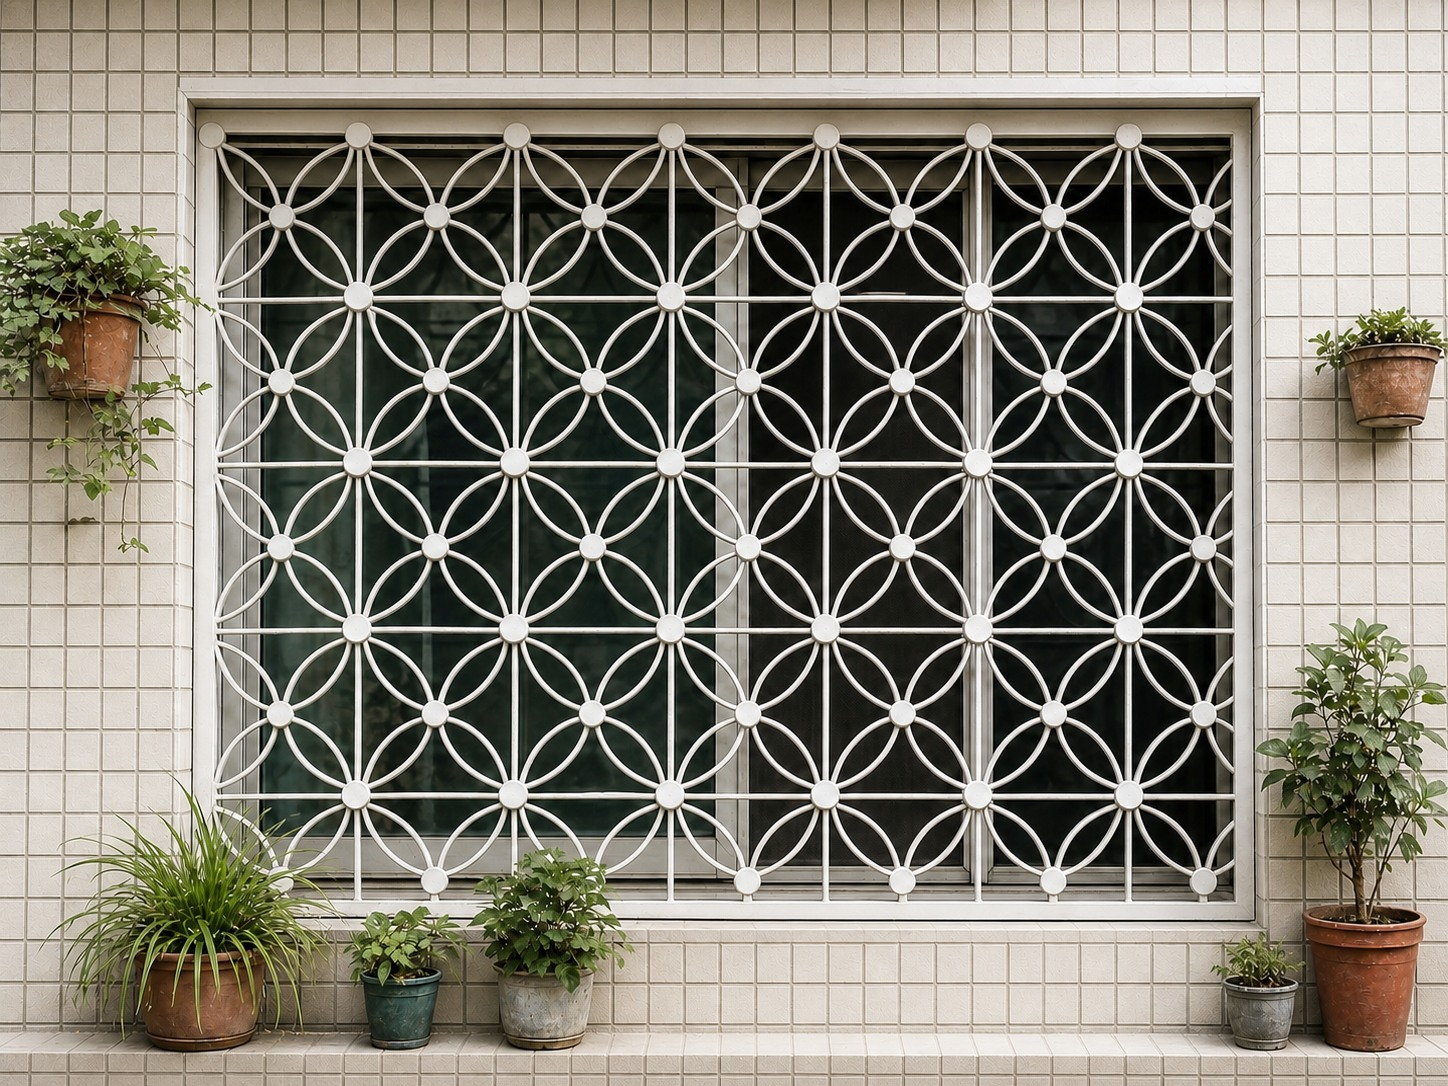
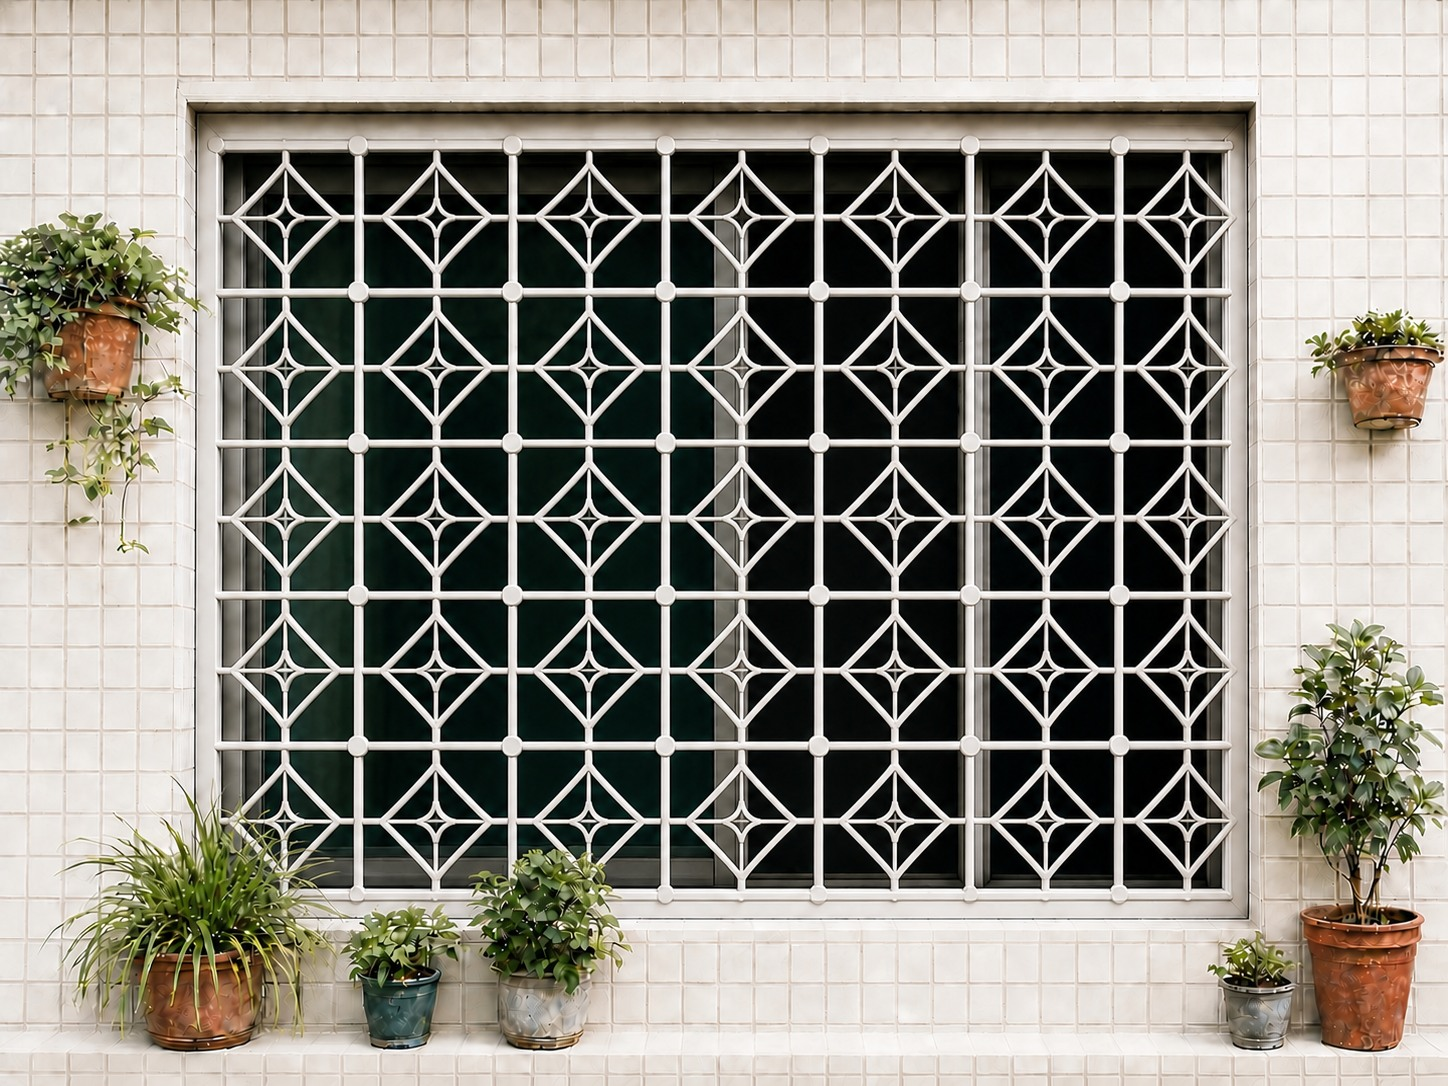
Align window grille with brand motif

diff --git a/index.html b/index.html
@@ -131,7 +131,7 @@
                         <div class="concept-copy"><span class="concept-number">02</span><p class="concept-en">SLOW EXTRACTION</p><h3 data-i18n="concept-2-title">用時間，滴出食材最純粹的本味</h3><p data-i18n="concept-2-copy">足齡雞隻經 12 小時無水慢火滴萃，再以細緻工序去脂除腥。慢，不只是製程，也是我們對品質的耐心。</p></div>
                     </article>
                     <article class="concept-item fade-up-scroll">
-                        <figure><img src="assets/brand/鐵窗花.jpg?v=2" alt="台灣鐵窗花細節" data-i18n="concept-window-alt" data-i18n-target="alt"></figure>
+                        <figure><img src="assets/brand/鐵窗花.jpg?v=5" alt="台灣鐵窗花細節" data-i18n="concept-window-alt" data-i18n-target="alt"></figure>
                         <div class="concept-copy"><span class="concept-number">03</span><p class="concept-en">TAIWAN WINDOW GRILLE</p><h3 data-i18n="concept-3-title">讓台灣窗花，守護每一份心意</h3><p data-i18n="concept-3-copy">紫藤窗花不只是裝飾，也是團圓與守護的記憶。我們將文化印記放進產品，讓每一次自用與贈禮都更有溫度。</p></div>
                     </article>
                 </div>
